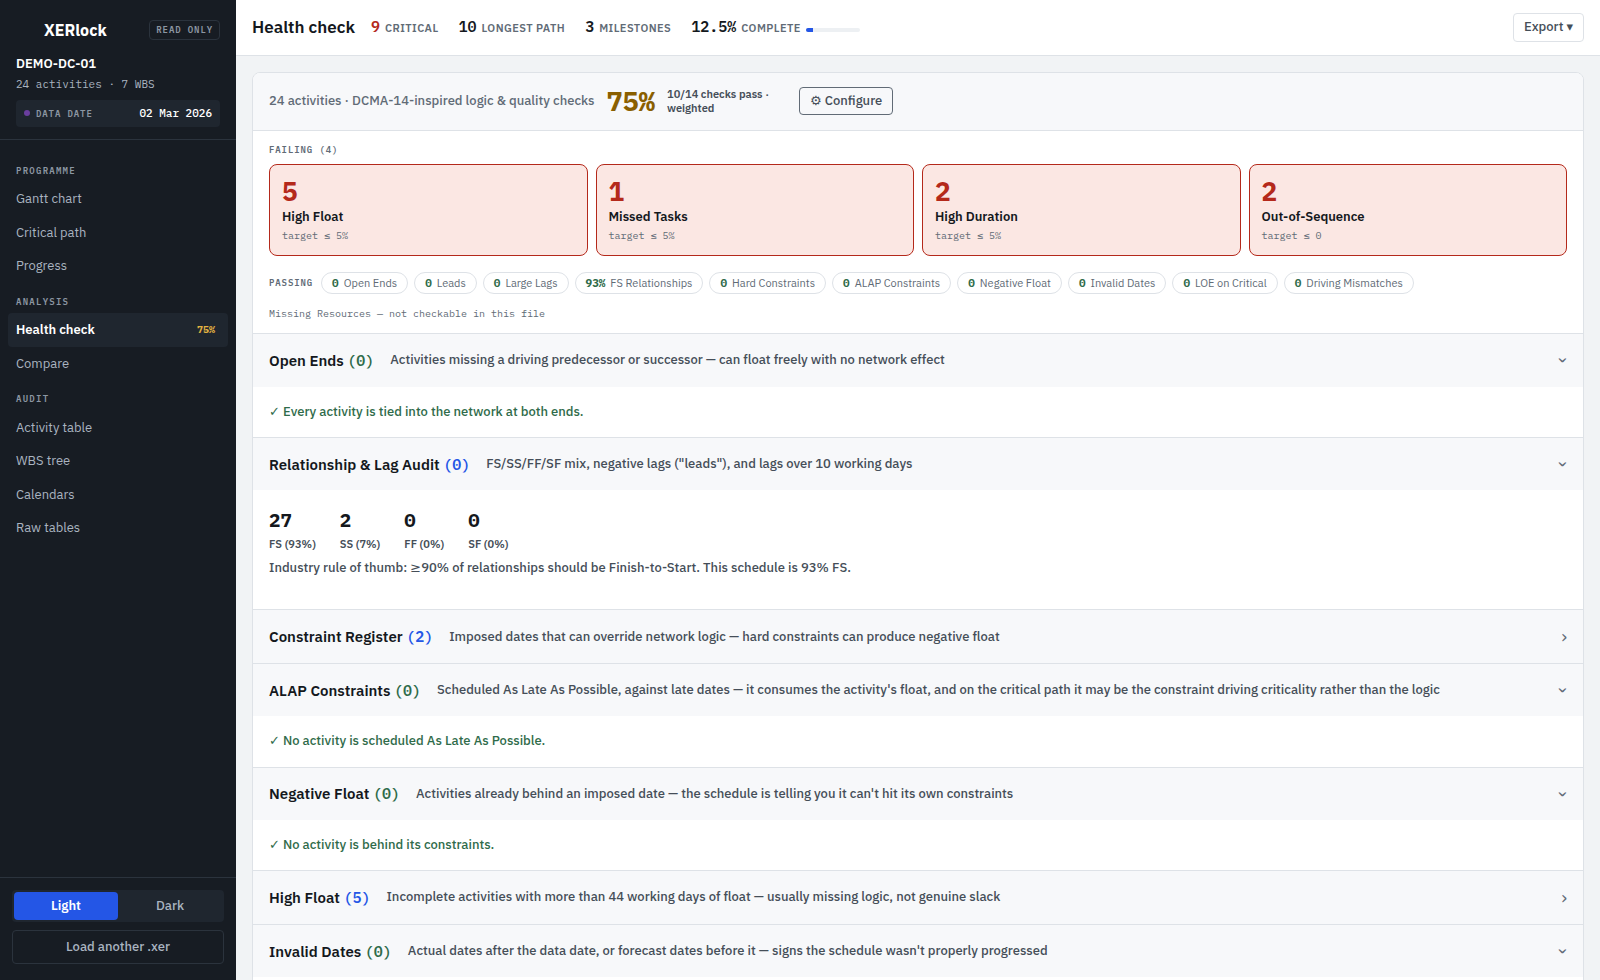
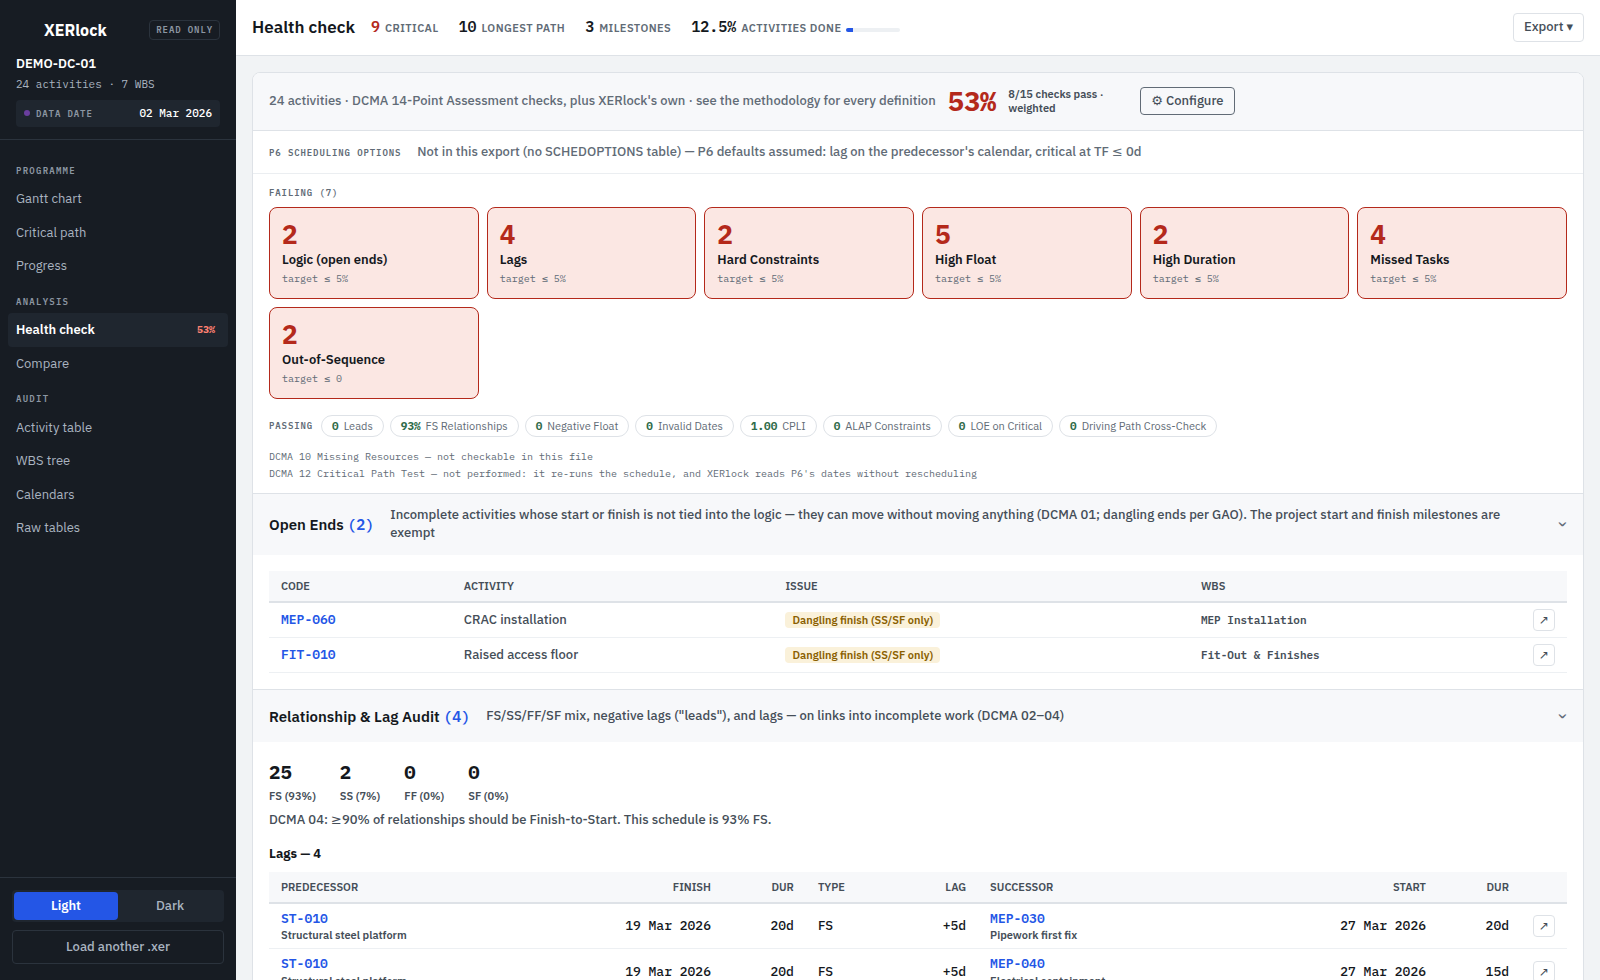
Methodology doc; README: the detective, and what the checks really are
docs/METHODOLOGY.md gives every figure's definition, source standard
(DCMA 14, GAO, AACE 49R-06/29R-03/78R-13), .xer fields and stated
deviations, including what XERlock does not do (Critical Path Test, BEI,
rescheduling). README describes the Health Check to that standard and
finally admits to the pun. Health-check screenshot regenerated from the
synthetic sample.

Claude-Session: https://claude.ai/code/session_01Pfi8yuhCLTRMYkPi2msGgy

diff --git a/docs/METHODOLOGY.md b/docs/METHODOLOGY.md
@@ -1,0 +1,210 @@
+# Methodology
+
+How XERlock computes every figure it shows, which standard each one follows, and where it
+departs from that standard. Written for a reviewer who has to defend a finding: each
+definition names the `.xer` fields it reads, so it can be re-checked by hand in the
+**Raw tables** view against the file as exported.
+
+## The principle: read P6's results, recompute only to cross-check
+
+XERlock is not a scheduling engine. Early/late dates, total float, free float and
+remaining durations are **P6's own computed values**, read from the `TASK` table exactly as
+exported. The app never reschedules.
+
+It does recompute three things independently, from those dates and the file's calendars,
+so that they can be checked against what P6 stored:
+
+| Recomputed | Checked against | Disagreement means |
+|---|---|---|
+| Driving relationships | (P6 does not export per-link driving flags) | — |
+| Longest Path | `TASK.driving_path_flag` | the schedule was edited and not recalculated, or a defect in XERlock |
+| CPLI | — (P6 does not compute it) | — |
+
+On the 12 real contractor submissions used in development (not published), the
+recomputed Longest Path matched P6's flag on every activity: 0 differences.
+
+## Standards referenced
+
+| Short name | Document |
+|---|---|
+| DCMA 14 | DCMA 14-Point Schedule Assessment, as published in the DCMA EVMS Program Analysis Pamphlet (DCMA-EA PAM 200.1, 2012) |
+| GAO | GAO Schedule Assessment Guide: Best Practices for Project Schedules (GAO-16-89G) |
+| AACE 49R-06 | AACE International Recommended Practice 49R-06, *Identifying the Critical Path* |
+| AACE 29R-03 | AACE International Recommended Practice 29R-03, *Forensic Schedule Analysis* |
+| AACE 78R-13 | AACE International Recommended Practice 78R-13, *Original Baseline Schedule Review* |
+| PMI | PMI *Practice Standard for Scheduling*, 3rd edition |
+
+## Units and dates
+
+- **Data date** is `PROJECT.last_recalc_date` — P6's status date for the last schedule run.
+- **Durations, float and lags** are stored in hours. Shown in days, they are divided by the
+  activity's own calendar hours per day (`CALENDAR.day_hr_cnt`), as P6 displays them. A
+  lag is shown in the successor's calendar days.
+- **Displayed start/finish** is the actual date once one exists, else the early date. P6
+  resets the early dates of completed work to the data date, so early dates alone would
+  collapse finished work onto the data date.
+- **Working time.** Every comparison of two dates that stands for a duration, lag or float
+  is measured in working hours on a P6 calendar (`backend/worktime.py`), never in clock
+  time. Calendars are decoded from `CALENDAR.clndr_data`: weekly work periods plus dated
+  exceptions (holidays, and worked days that would otherwise be non-working).
+
+## Critical activities
+
+**Critical** follows the project's own definition in `PROJECT.critical_path_type`
+(AACE 49R-06 discusses both):
+
+- `CT_TotFloat`: total float ≤ `PROJECT.critical_drtn_hr_cnt` (P6's default threshold is
+  0; a contract may set it higher). Negative float is critical and is also flagged
+  separately.
+- `CT_DrivPath`: on P6's Longest Path (`driving_path_flag`). If the file carries no flags,
+  the recomputed Longest Path is used.
+
+## Driving relationships and the Longest Path
+
+A relationship **drives** its successor when its *relationship free float* is zero: the
+successor sits exactly where the link, plus its lag, puts it.
+
+```
+implied = predecessor date (EF for FS/FF, ES for SS/SF) + lag, added on the lag calendar
+free float = working hours from implied to the successor date (ES for FS/SS, EF for FF/SF),
+             measured on the successor's calendar
+driving    = |free float| ≤ 1 minute
+```
+
+- The **lag calendar** is the one named in `SCHEDOPTIONS.sched_calendar_on_relationship_lag`
+  (predecessor, successor, 24-hour or project default). Without the table, P6's default
+  (predecessor) is assumed.
+- The gap is measured on the **successor's** calendar because P6 places the successor at
+  the first working moment on its own calendar after the link allows. A Friday 16:00 →
+  Monday 08:00 FS link on a 5-day calendar therefore has zero free float.
+- An activity can have **no** driving predecessor. That happens when it is held by a
+  constraint, by the data date, or by out-of-sequence progress.
+- Two links can both drive (concurrent drivers). Both are marked.
+
+Each link's free float is shown in the activity panel, so any driving flag can be checked
+by hand.
+
+**Longest Path** (P6's definition, AACE 49R-06's preferred basis): start from the activity
+with no successors that has the latest early finish (all of them, if several tie), and
+walk backward through driving links only. The chain ends where nothing drives.
+
+## Percent complete
+
+- **Per activity**, on the basis the activity declares in `TASK.complete_pct_type`, as P6
+  computes it:
+  - `CP_Phys`: `phys_complete_pct`.
+  - `CP_Drtn`: (original − remaining) / original duration, clamped to 0–100. 100 when
+    complete.
+  - `CP_Units`: actual / (actual + remaining) units summed over the activity's `TASKRSRC`
+    rows. Falls back to the physical figure when the file has no resource quantities.
+- **Project "Activities done"**: the share of activities with status Complete. A count,
+  not weighted by duration, cost or units. It is labelled as a count for that reason.
+
+## Health check
+
+Every rule lives in `frontend/src/utils/healthChecks.js`, with unit tests beside it.
+
+**Population.** DCMA's percentage metrics are taken over incomplete activities,
+excluding level-of-effort (`TT_LOE`) and WBS-summary (`TT_WBS`) activities, which carry
+no logic of their own. Milestones are included. Relationship metrics count the links into
+incomplete activities.
+
+Targets and weights are editable because contracts set their own. The defaults are
+DCMA's. The overall **score** is the weighted share of included checks that pass. That
+roll-up is XERlock's: DCMA defines a pass/fail per metric, not a composite score.
+
+| Source | Check | Finding | Measured as | Default target |
+|---|---|---|---|---|
+| DCMA 01 | Logic | No FS/SS predecessor (start not tied) or no FS/FF successor (finish not tied). Exempt: the earliest start milestone without predecessors, the latest finish milestone without successors | % of population | ≤ 5% |
+| DCMA 02 | Leads | Negative lag | count | 0 |
+| DCMA 03 | Lags | Positive lag above the threshold (default 0 days, i.e. any lag) | % of relationships | ≤ 5% |
+| DCMA 04 | Relationship types | FS share | % of relationships | ≥ 90% |
+| DCMA 05 | Hard constraints | Mandatory Start/Finish, Start/Finish On, Start/Finish On or Before (P6's names for DCMA's "no later than"), as primary or secondary constraint | % of population | ≤ 5% |
+| DCMA 06 | High float | Total float > 44 working days | % of population | ≤ 5% |
+| DCMA 07 | Negative float | Total float < 0 | count | 0 |
+| DCMA 08 | High duration | Task or resource-dependent activity with original duration > 44 working days | % of population | ≤ 5% |
+| DCMA 09 | Invalid dates | Actual after the data date, or forecast (early) date before it | count | 0 |
+| DCMA 10 | Resources | Incomplete task without a resource assignment. Runs only if the file has resources | % of population | ≤ 5% |
+| DCMA 11 | Missed tasks | Planned finish on or before the data date, and not finished or finished late | % of those planned to finish | ≤ 5% |
+| DCMA 12 | Critical Path Test | **Not performed** (see below) | — | — |
+| DCMA 13 | CPLI | (CPL + TF) / CPL | ratio | ≥ 0.95 |
+| XERlock | Out-of-sequence | Successor started before an FS predecessor finished, started before an SS predecessor started, or finished before an FF predecessor finished | count | 0 |
+| XERlock | ALAP constraints | As Late As Possible, primary or secondary | count | 0 |
+| XERlock | LOE on critical | Level of effort that is critical or on the Longest Path | count | 0 |
+| XERlock | Driving path cross-check | P6's stored Longest Path flag ≠ recomputed Longest Path | count | 0 |
+
+Deviations from DCMA, stated so they can be weighed:
+
+- **DCMA 01** counts only missing predecessors or successors. XERlock also counts dangling
+  ends (a start tied only by FF/SF links, a finish tied only by SS/SF), following GAO's
+  guidance on dangling logic. The Open Ends list labels which case each one is.
+- **DCMA 11 and 14** measure against the baseline. A single `.xer` carries none, so Missed
+  Tasks uses P6's Planned Finish (`target_end_date`). P6 moves planned dates with the
+  forecast on work that has not started. Read the result as a check against the current
+  plan, not a baseline execution index. **BEI (DCMA 14)** is not computed.
+- **DCMA 12 (Critical Path Test)** adds a delay to the critical path, reschedules, and
+  checks that the finish moves by the same amount. That needs a scheduling engine, which
+  XERlock deliberately is not. The Driving Path Cross-Check and the Logic checks cover part
+  of the same ground (an unbroken, driving chain to the finish), but they are not a
+  substitute.
+
+**CPLI.** CPL is the working time on the finish activity's calendar from the data date
+to the early finish of the Longest Path's last activity. TF is that activity's total
+float. If the project has no finish deadline, TF is 0 and CPLI is 1.00 by construction.
+CPLI says something only where a deadline exists.
+
+**Scheduling options.** These are shown above the results, because every computed date
+depends on them (AACE 78R-13; GAO best practice 9). XERlock flags two settings that
+deserve a second look:
+- *Progress Override*, which lets out-of-sequence work ignore its predecessors. *Retained
+  Logic* is the conservative setting.
+- *Use Expected Finish dates*, which lets a typed-in date set the remaining duration in
+  place of the estimate.
+
+## Compare
+
+Activities are matched by activity code (`task_code`), which stays stable across
+re-exports. Internal IDs do not. All date movements are in **calendar days**.
+
+| Section | Rule |
+|---|---|
+| Project finish | Latest displayed finish in each file |
+| Date changes | Displayed finish moved |
+| Duration changes | Original duration changed, in the current activity's calendar days |
+| Actual dates changed | An actual start/finish present in the earlier file moved or disappeared. As-built history should not change between updates; AACE 29R-03 treats validating it as a precondition of any delay analysis |
+| Constraint changes | Primary or secondary constraint type or date added, removed or changed |
+| Float erosion | Total float decreased |
+| Critical path changes | Entered or left the critical set |
+| Critical path stability | Share of the earlier Longest Path still on it |
+| Logic changes | Predecessor links (code, type, lag) added or removed |
+
+Compare shows what changed. It is not a delay analysis. It allocates no responsibility and
+implements none of the AACE 29R-03 methods (observational static or dynamic, modelled
+additive or subtractive). It is the evidence-gathering step those methods start from.
+
+## Progress
+
+- **Milestones**: variance is forecast minus planned finish, in calendar days.
+  Status bands: on track ≤ 0, watch 1–10, at risk > 10. The bands are XERlock's convention.
+- **Look-ahead**: incomplete activities whose early dates overlap the window from the data
+  date.
+- **S-curve**: the cumulative *count* of activities planned to finish (planned dates) and
+  actually finished (actual dates), by month. The curve is unweighted (not by cost,
+  hours or duration) and not baselined, and the chart says so.
+
+## Not done
+
+- Rescheduling, or any CPM forward/backward pass (so no Critical Path Test).
+- BEI against a baseline.
+- Cost, earned value, resource levelling or loading analysis.
+- Schedule risk analysis, e.g. Monte Carlo (AACE 57R-09).
+
+## Verifying it yourself
+
+- `pytest` covers the working-time arithmetic (weekends, holidays, worked exceptions,
+  24-hour calendars), the driving rule, agreement with P6's flags on the sample, the CPLI
+  hand calculation, % complete per type, and the scheduling-options decoding.
+- `npm run test:run` in `frontend/` covers each health-check rule on minimal synthetic
+  schedules, plus pinned finding counts on the sample.
+- For any finding, the **Raw tables** view shows the exact `TASK`, `TASKPRED`, `CALENDAR`
+  and `SCHEDOPTIONS` rows it came from.

diff --git a/README.md b/README.md
@@ -11,12 +11,24 @@ your own infrastructure.
 The name is the promise: XERlock is **locked read-only**. It never modifies, never re-saves, and
 never stores your `.xer` - files are parsed in memory and discarded.
 
+It is also, you will have noticed, a detective. Every programme arrives with a story - "the
+critical path runs through commissioning", "we are on track for practical completion" - and
+the clues are all in the file: a lag doing the work of a missing activity, a holiday quietly
+removed from a calendar, an actual date that moved between two updates, a constraint
+propping up a finish date. XERlock doesn't take the narrative's word for it. It reads the
+evidence and shows its working. *Elementary* - though, unlike the original, it cites its
+sources: every calculation is documented against the standard it follows in
+[docs/METHODOLOGY.md](docs/METHODOLOGY.md).
+
 **Try it locally** - one click loads a sample data-centre fit-out, or
 upload your own `.xer` (parsed in memory, never stored).
 
-Built for project controls professionals: the checks, terminology, and defaults follow how
-schedules actually get reviewed (total float severity bands, longest-path vs TF≤0 critical basis,
-open-end detection, lag/lead audits, out-of-sequence progress).
+Built for project controls professionals: the checks follow the DCMA 14-Point Assessment, the
+critical path follows P6's own definitions (AACE 49R-06), and every computed figure is either
+P6's own value read from the file or recomputed in working time and cross-checked against it.
+The recomputed Longest Path matches P6's on every activity of the real submissions it was
+developed against. [docs/METHODOLOGY.md](docs/METHODOLOGY.md) gives each figure's definition,
+source standard, `.xer` fields, and known deviations.
 
 ![Gantt chart](docs/screenshots/gantt.png)
 *Critical-path links drawn above the bars - logic never hides behind unrelated activities. Chain
@@ -34,7 +46,9 @@ meaning. Works down to a phone, where the sidebar slides over from a hamburger.
   colour-coded by the same severity bands as the bars
 - Continuous zoom (presets + Ctrl/scroll), drag-pan, fit-to-width, resizable activity column
 - Critical-path link overlay drawn *above* bars so logic never hides behind unrelated activities
-- Two critical-basis modes: TF ≤ 0 or Longest Path (driving-chain trace from the finish)
+- Two critical-basis modes: total float at or below the project's own critical threshold, or
+  Longest Path - traced through driving links, where a link drives when its relationship free
+  float is zero in working time, exactly as P6 defines it
 - Progress line, today + data-date markers, weekend shading, filter bar (text/status/critical/
   activity codes/date window with 4- and 8-week look-ahead presets from the data date)
 - Float tails: a dashed line off each bar end, proportional to total float, so slack is visible
@@ -43,7 +57,8 @@ meaning. Works down to a phone, where the sidebar slides over from a hamburger.
   baseline position - slips read as horizontal offsets, right in the Gantt
 - Docked detail panel (it does not cover the chart): stat tiles, and a **driving chain** showing
   the driving predecessor, this activity, and the driving successor with the link type and lag
-  per hop - click a node to walk the chain. What is not driving sits in collapsed lists
+  per hop - click a node to walk the chain. What is not driving sits in collapsed lists, each
+  link with its relationship free float, so every "driving" label can be checked by hand
 - Print-friendly export
 
 **Critical Path** - activity-on-node network diagram
@@ -54,19 +69,25 @@ meaning. Works down to a phone, where the sidebar slides over from a hamburger.
   sequence; link type and lag are labelled on each edge (`FS`, `SS +5d`)
 - Pan/zoom canvas with the same docked detail panel and jump navigation
 
-**Health Check** - configurable DCMA-14-inspired logic & quality scorecard
+**Health Check** - the DCMA 14-Point Assessment, plus checks of XERlock's own
 ![Health check](docs/screenshots/health-check.png)
-- 15 checks: open ends, leads, large lags, FS-relationship mix, hard constraints,
-  **ALAP constraints** (flagging which of them sit on the critical path), negative float,
-  high float, invalid dates vs the data date, missed tasks (BEI against the current plan),
-  high-duration activities, out-of-sequence progress, LOE-on-critical-path anomalies,
-  driving-path cross-check against P6's own flag, missing resource assignments
-- Failures are cards in the state colour, passes collapse into a quiet pill strip and
-  un-checkable items are a footnote, so what needs attention reads pre-attentively
-- **Configurable**: per-check include/exclude, thresholds, targets, and weights (contracts differ)
-  roll up into a weighted overall score; your settings persist in the browser
-- Honest by design: checks that can't run on a given file are labeled as such and never
-  counted toward the score
+- DCMA 01-11 and 13 to their published definitions and populations (incomplete work,
+  excluding level-of-effort and WBS summaries): logic and dangling ends, leads, lags,
+  relationship types, hard constraints, high and negative float, high duration, invalid
+  dates, resources, missed tasks, and the **CPLI** computed in working time
+- DCMA 12 (Critical Path Test) is listed as not performed, with the reason: it requires
+  rescheduling, and XERlock reads P6's results rather than recomputing them
+- Plus: out-of-sequence progress on FS, SS and FF links, ALAP constraints on the critical
+  path, LOE on the critical path, and a **driving path cross-check** - P6's stored Longest
+  Path against the one recomputed from the file's dates, which exposes a schedule that was
+  edited and not recalculated
+- **P6 scheduling options** shown first (Retained Logic vs Progress Override, float type,
+  lag calendar, critical definition, expected finish dates): every date depends on them
+- Every check names its source; failures are cards in the state colour, passes collapse into
+  a quiet pill strip, and un-checkable items are a footnote with the reason
+- **Configurable**: per-check include/exclude, thresholds, targets, and weights (contracts
+  differ), defaulting to DCMA's; the weighted score is labelled as XERlock's roll-up, not a
+  DCMA figure
 - Every finding is one click away from the activity in the Gantt
 
 **Progress** - status-date-anchored monitoring
@@ -101,6 +122,8 @@ meaning. Works down to a phone, where the sidebar slides over from a hamburger.
   movers - tables below for drill-down
 - Date slips, duration edits, float erosion, critical-path churn (with a stability score),
   logic changes, added/removed activities
+- **Forensic checks**: actual dates that moved or vanished between updates (as-built history
+  should not change), and constraints added, removed or re-dated
 - **Snapshot register**: save the current parse in the browser (IndexedDB) and diff
   against it next month - no need to keep old `.xer` files at hand; nothing leaves
   the browser
@@ -186,10 +209,11 @@ pip install -r requirements-dev.txt && pytest        # backend: parser, calendar
 cd frontend && npm install && npm run test:run       # frontend: pure utils, geometry
 ```
 
-The backend suite pins the numerically load-bearing behaviour — longest-path trace,
-driving-relationship flags, float/day conversion, the display-date convention, calendar
-exception decoding — plus the API contract, including that no uploaded file survives the
-request. Both suites run on every push (`.github/workflows/test.yml`).
+The backend suite pins the numerically load-bearing behaviour - working-time arithmetic on P6
+calendars, the driving rule and its agreement with P6's own Longest Path, the CPLI hand
+calculation, % complete per P6 type, float/day conversion, the display-date convention,
+calendar exception decoding - plus the API contract, including that no uploaded file survives
+the request. The frontend suite tests each health-check rule on a minimal synthetic schedule. Both suites run on every push (`.github/workflows/test.yml`).
 
 ## Development notes
 
